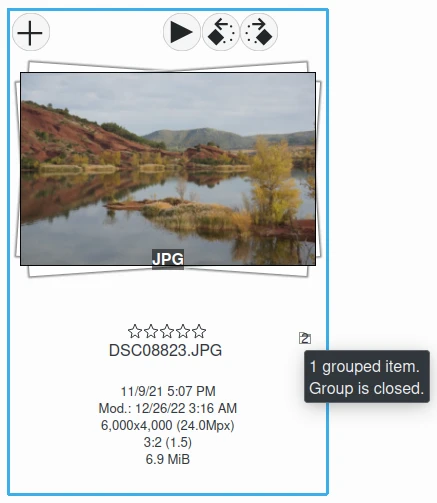
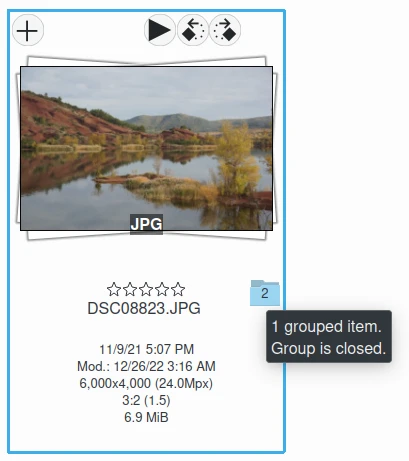
review++

Changed region(s): [[0.0, 0.0, 0.9976, 1.0], [0.176, 0.6074, 0.5575, 0.9414]]

diff --git a/main_window/image_view.rst b/main_window/image_view.rst
@@ -145,7 +145,7 @@ Grouping items is a very useful way to organize Photographs and/or videos that a
 
     The digiKam Icon-View Grouped Items Options From Context Menu
 
-You can put the whole selection into one group using **Group Selected Here** or you can create more than one group determined by time (seconds will be ignored) or by file name. Note that the latter will put items with the same name but different file types into one group. Use case see further below!
+You can put the whole selection into one group using **Group Selected Here** or you can create more than one group determined by time (seconds will be ignored) or by file name. Note that the latter will put items with the same name but different file types into one group. Use case see further below.
 
 .. figure:: images/mainwindow_grouped_items.webp
     :alt:
@@ -153,7 +153,15 @@ You can put the whole selection into one group using **Group Selected Here** or 
 
     The digiKam Icon-View Grouped Mode From Icon-View
 
-The next group in the menu is to control whether only the reference icon of the group (the first of the group according to the sorting order at the moment of grouping) is displayed or all of them. These two functions can also be accessed by the little grouping indicator (folder symbol with number) on the reference icon (see upper left icon on the screenshot). While the mouse pointer is hovering over it there will pop up an information “n grouped items. Group is closed/open.” where n indicates the number of items in the group which are invisible if the group is closed. Clicking on the indicator toggles between open and closed. In the Table mode of the Image Area groups are indicated the way we know from many other lists and tables: with a little triangle in front of the reference item. Clicking on this triangle will fold out/in the grouped items.
+The next group in the menu is to control whether only the reference icon of the group (the first of the group according to the sorting order at the moment of grouping) is displayed or all of them. These two functions can also be accessed by the little grouping indicator (folder symbol with number) on the reference icon.
+
+.. note::
+
+    In Icon View, you can turn on/off the frame over goupped item thumbnails with an option from :ref:`Setup/Miscs/Appearance <settings_appearance> settings. 
+
+While the mouse pointer is hovering over it there will pop up an information **n grouped items. Group is closed/open.** where *n* indicates the number of items in the group which are invisible if the group is closed. Clicking on the indicator toggles between **open** and **closed**.
+
+In the **Table Mode** of the Image Area groups are indicated the way we know from many other lists and tables: with a little triangle in front of the reference item. Clicking on this triangle will fold out/in the grouped items.
 
 .. figure:: images/mainwindow_grouped_table.webp
     :alt:
@@ -161,12 +169,16 @@ The next group in the menu is to control whether only the reference icon of the 
 
     The digiKam Icon-View Grouped Mode From Table View
 
-The last group in the Group context menu allows to remove individual items from the group or to disband the whole group. The content of the menu will change depending on whether you use it on a selection of still un-grouped items, on a group or on single items of a group.
+The last group in the **Group** context menu allows to remove individual items from the group or to disband the whole group. The content of the menu will change depending on whether you use it on a selection of still un-grouped items, on a group or on single items of a group.
 
-What can you do with a group? In terms of functions of digiKam you can perform a lot of operations like copy, delete, move, rotate on the whole group by selecting only the reference icon provided the group is closed. The same way you can load the whole group into tools like Light Table or the Batch Queue Manager, even into the Image Editor where you can navigate through the group members with the page keys on your keyboard. You can assign tags and labels (see further below in this chapter) and also write descriptions (see :ref:`Captions <captions_view>`). Give it a try!
-
-In terms of use cases you can for instance group videos together with the .jpg - images related to them which most cameras provide or RAW images with their JPG counterpart. This is made easy by **Group Selected By Filename**. In the screenshot above exposure bracketed images are being grouped. One could do the same for archiving purposes with images used for a panorama. If you have very specific requirements for documenting of editing steps the :ref:`Versions <versions_view>` function of digiKam cannot meet you may find a solution using grouping. We can think of more use cases for grouping but We don't want to overload this section of the handbook here. Maybe a last hint for your own ideas: grouping is not restricted to items out of the same album. The whole group (open or closed) will only be visible in the album of the reference item. The other members of the group will be visible in their own albums only if the group is open. Can be confusing, use with care!
+What can you do with a group? In terms of functions of digiKam you can perform a lot of operations like copy, delete, move, rotate on the whole group by selecting only the reference icon provided the group is closed. The same way you can load the whole group into tools like Light Table or the Batch Queue Manager, even into the Image Editor where you can navigate through the group members with the page keys on your keyboard. You can assign tags and labels (see further in this manual) and also write descriptions (see :ref:`Captions <captions_view>`). Give it a try.
 
 .. note::
 
-     Everything described in this Grouping section has nothing to do with **Group Images** in the View menu. That function doesn't form permanent groups of items, it only organizes the way icons are displayed in the Image Area.
+    Operations to perform over grouped items are managed by Setup/Miscs/Grouping settings. See :ref:`this section <grouping_settings>` from the manual for details. 
+
+In terms of use cases you can for instance group videos together with the .jpg - images related to them which most cameras provide or RAW images with their JPG counterpart. This is made easy by **Group Selected By Filename**. In the screenshot above exposure bracketed images are being grouped. One could do the same for archiving purposes with images used for a panorama. If you have very specific requirements for documenting of editing steps the :ref:`Versions <versions_view>` function of digiKam cannot meet you may find a solution using grouping. We can think of more use cases for grouping but We don't want to overload this section of the handbook here. Maybe a last hint for your own ideas: grouping is not restricted to items out of the same album. The whole group (open or closed) will only be visible in the album of the reference item. The other members of the group will be visible in their own albums only if the group is open. Can be confusing, use with care.
+
+.. note::
+
+     Everything described in this Grouping section has nothing to do with **Group Images** in the **View** menu. That function doesn't form permanent groups of items, it only organizes the way icons are displayed in the Image Area.

diff --git a/setup_application/miscs_settings.rst b/setup_application/miscs_settings.rst
@@ -70,7 +70,7 @@ With the **Lower bound for minimum similarity** option, you can select the lower
 Application Updates
 ~~~~~~~~~~~~~~~~~~~
 
-The **Updates** settings allows to tune how the check the online availablity of a new application version. You can select **Only For Stable Releases** which are official versions safe to use in production. Another choice is **Weekly Pre-Releases** which are proposed to tests quickly new features but not recommended to use in production as bugs can remain.
+The **Updates** settings allows to tune how the check the online availablity of a new application version. You can select **Only For Stable Releases** which are official versions safe to use in production. Another choice is **Weekly Pre-Releases** which is proposed to tests quickly new features but not recommended to use in production as bugs can remain.
 
 The option **Use Version With Debug Symbols** allows to download version including debug symbols. This version is more heavy but can help developers to trace dysfunctions in debugger.
 
@@ -177,6 +177,8 @@ For each case, you can select if digiKam can:
 - **No**: do nothing.
 - **yes**: operate items.
 - **Ask**: ask to confirm before to continue.
+
+For this last case, a dialog as below will appears during operation. You can remember your choice for the next time, this will adjust the operation settings accordingly.
 
 .. figure:: images/setup_operation_warning.webp
     :alt:
